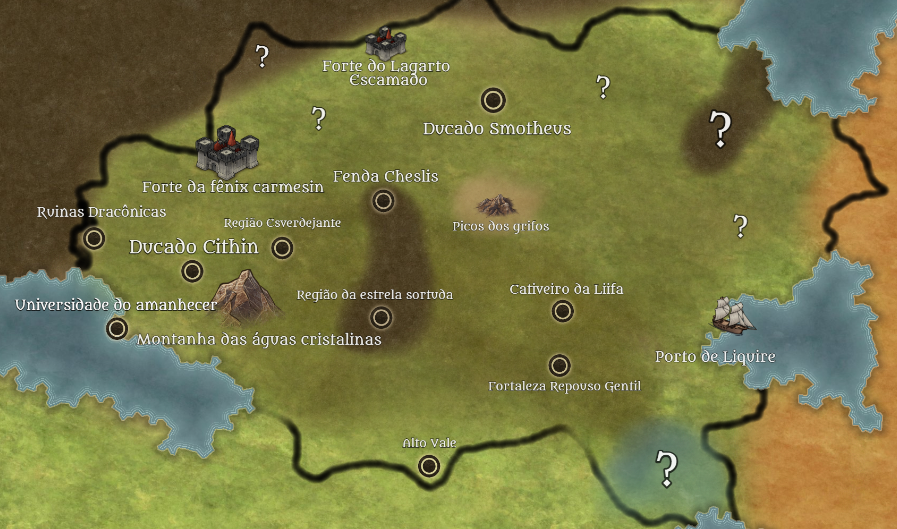
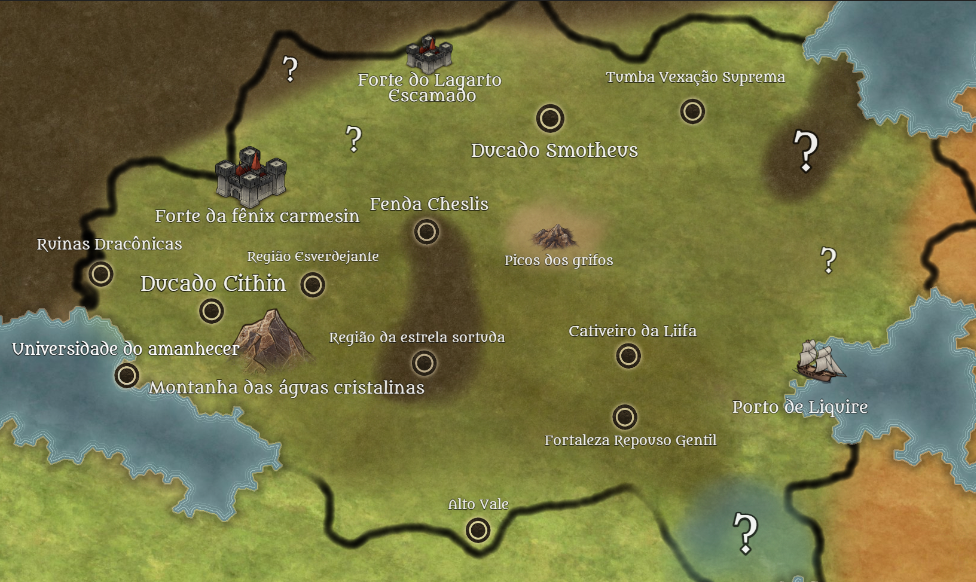
26 sessão

diff --git a/src/app/main/sessoes/sessoes.component.html b/src/app/main/sessoes/sessoes.component.html
@@ -540,5 +540,17 @@
         <p>Exatamente isso que acontece, durante o embate o grupo mata ele e o Principe ascende ao trono. O general Túlio e o grupo negociam com o Principe: ambos terão uma embaixada na capital de seus reinos, o principe devolverá a colonia élfica e a armadura do Púrpura do Oeste. (Com certeza as negociações foram mais vantajosas para o reino Graindi)</p>
         <p>De volta para a capital, o grupo é condecorado com medalhas de honra de platina, que garante a eles acesso dentro do castelo do rei e cada um deles recebeu um vale com direito de pegar um item cada no pavilhão da forja mágica.</p>
         </accordion-group>
+        <accordion-group>
+          <div accordion-heading class="header">26° sessão 12/12</div>
+          <p>O grupo começa a pensar em um simbolo para ele, algo que possa ser lembrado.</p>
+          <p>O grupo resolve voar com os grifos para a tumba da vexação suprema, onde o patrono do Drezig disse que estáa recompensa por ele ter capturada uma alma no anel dele.</p>
+          <p>Eles voam primeiro em direção aos Picos dos Grifos, mas no caminho eles encontram dois grupos de corruptores se enfrentando. Um era formado por Cambions infernais, outro pro Cambions abissais.</p>
+          <p>O grupo resolve esperar escondido pra ver como o combate vai se susceder. O grupo de cambions infernais sai vitorioso. O grupo resolve tentar estabelecer contato com eles.</p>
+          <p>Drezig, por ja saber infernal, tenta dialogar com eles, mas os Cambions infernais acabam achando que ele é um demonio do abismo e atacam o grupo. Um dos cambions enfeitiça o Jorgus, que acaba deixando o combate mais dificil. Sid mata um dos Cambions e o outro escapa com uma habilidade similar com a de teletransporte.</p>
+          <p>Como o corpo do Cambion morto não voltou para Baator, Sid resolve revivê-lo, pois é contra sua religião matar. Eles interrogam, na medida do possivel, o cambion revivido.</p>
+          <p>O Cambion revela que ele confundiu Drezig com um Demonio por que a aura dele lembrava a de um, mas depois que ele focou ele viu que na verdade, era diferente. Depois de ameaçado, ele usou a habilidade de teletransporte para fugir.</p>
+          <p>O grupo segue para a tumba da vexação suprema. Eles descobrem que o lugar está dentro de um vulcão, em uma pedra flutuando na lava.</p>
+          <p>Dentro da tumba eles encontram uma bruxa que Sid assume que fez pacto com Demogorgon por causa de seu cajado. Eles recebem danos severos, mas conseguem matar a bruxa. Na parede eles leem parte da <a routerLink="../lores">história da vexação suprema.</a> </p>
+          </accordion-group>
   </accordion>
 </div>

diff --git a/src/app/main/lores/lores.component.html b/src/app/main/lores/lores.component.html
@@ -49,6 +49,12 @@ Sentindo que meu fim se aproximava, resolvi sair do vale do arrependimento, pass
               que hoje tem grande influencia no ducado inteiro. De acordo com a Sophia, o Purpura do Oeste está sumido ha mais de uma década, e o Passos Divinos raramente da as caras no ducado, 
                dizem que atualmente ele passa a maior parte do tempo no reino de Dragohatan. 
         </accordion-group>
+
+        <accordion-group>
+            <div accordion-heading class="header"> Vexação Suprema</div>
+            Há milhares de anos, havia um Lorde Demônio que reinava soberano no Abismo, com sua arma,
+ele subjugava todos que se colocavam contra ele, por isso, nomeou sua arma de Vexação Suprema. 
+        </accordion-group>
         
   </accordion>
 </div>
